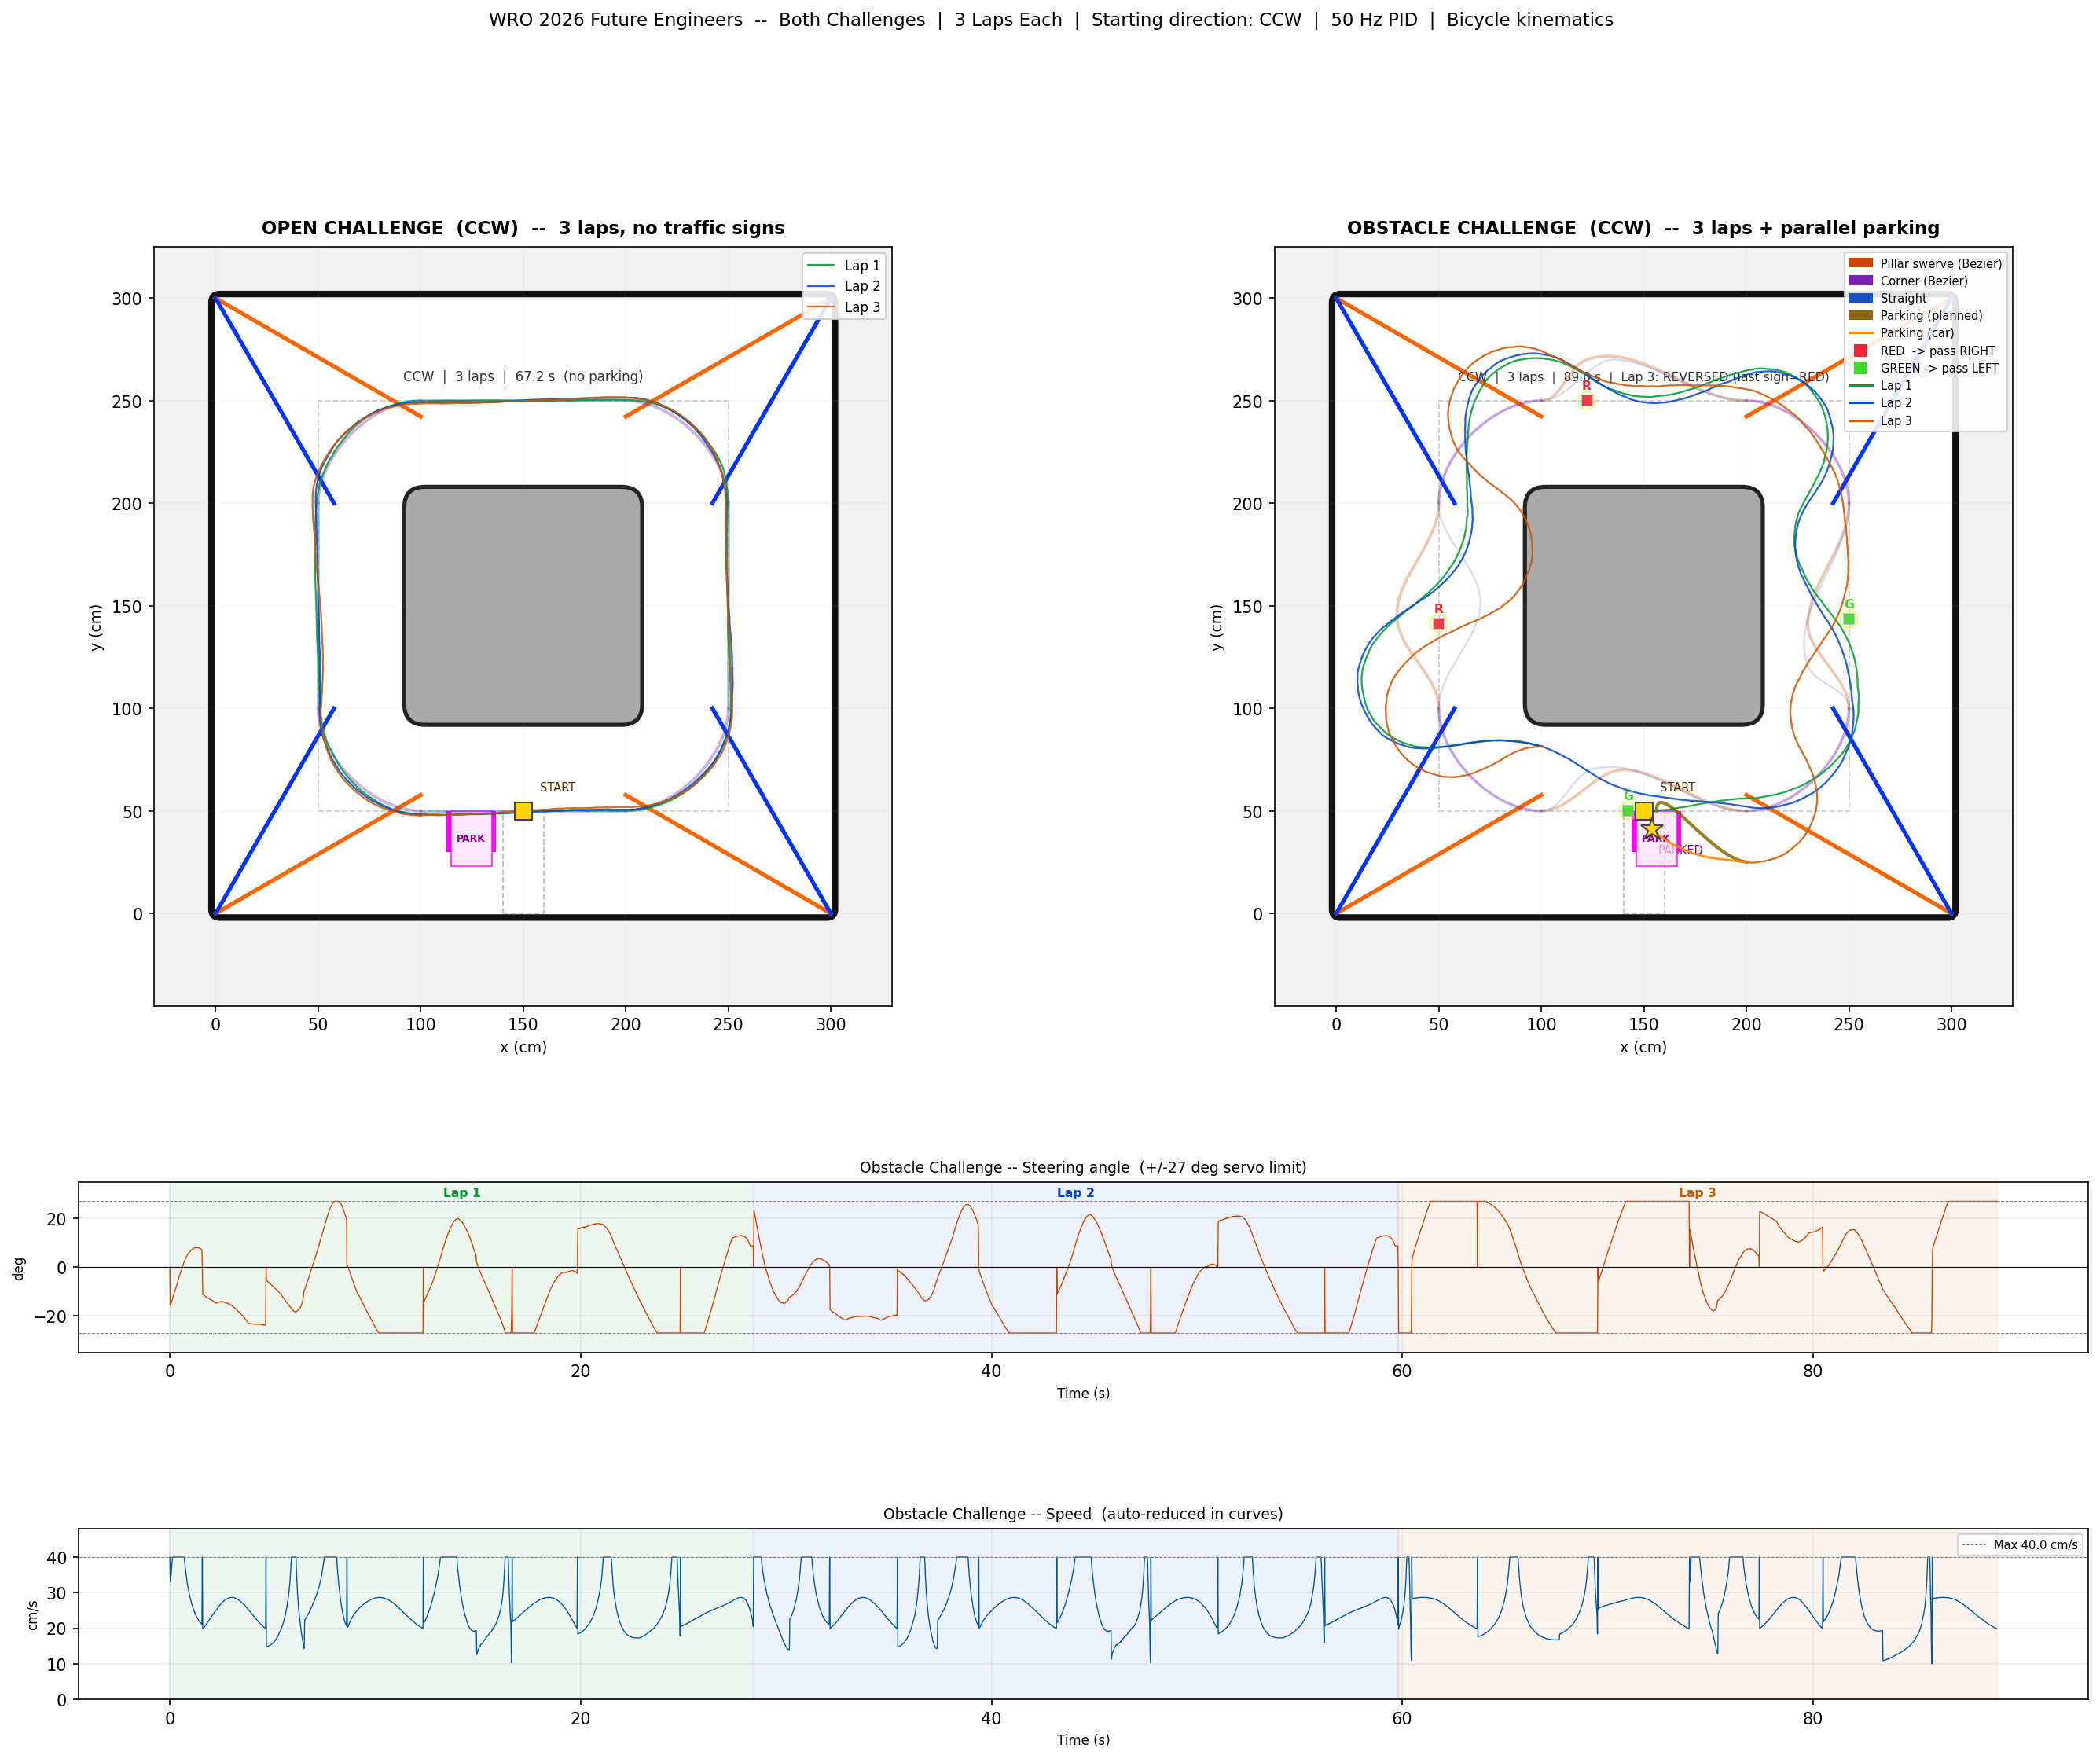
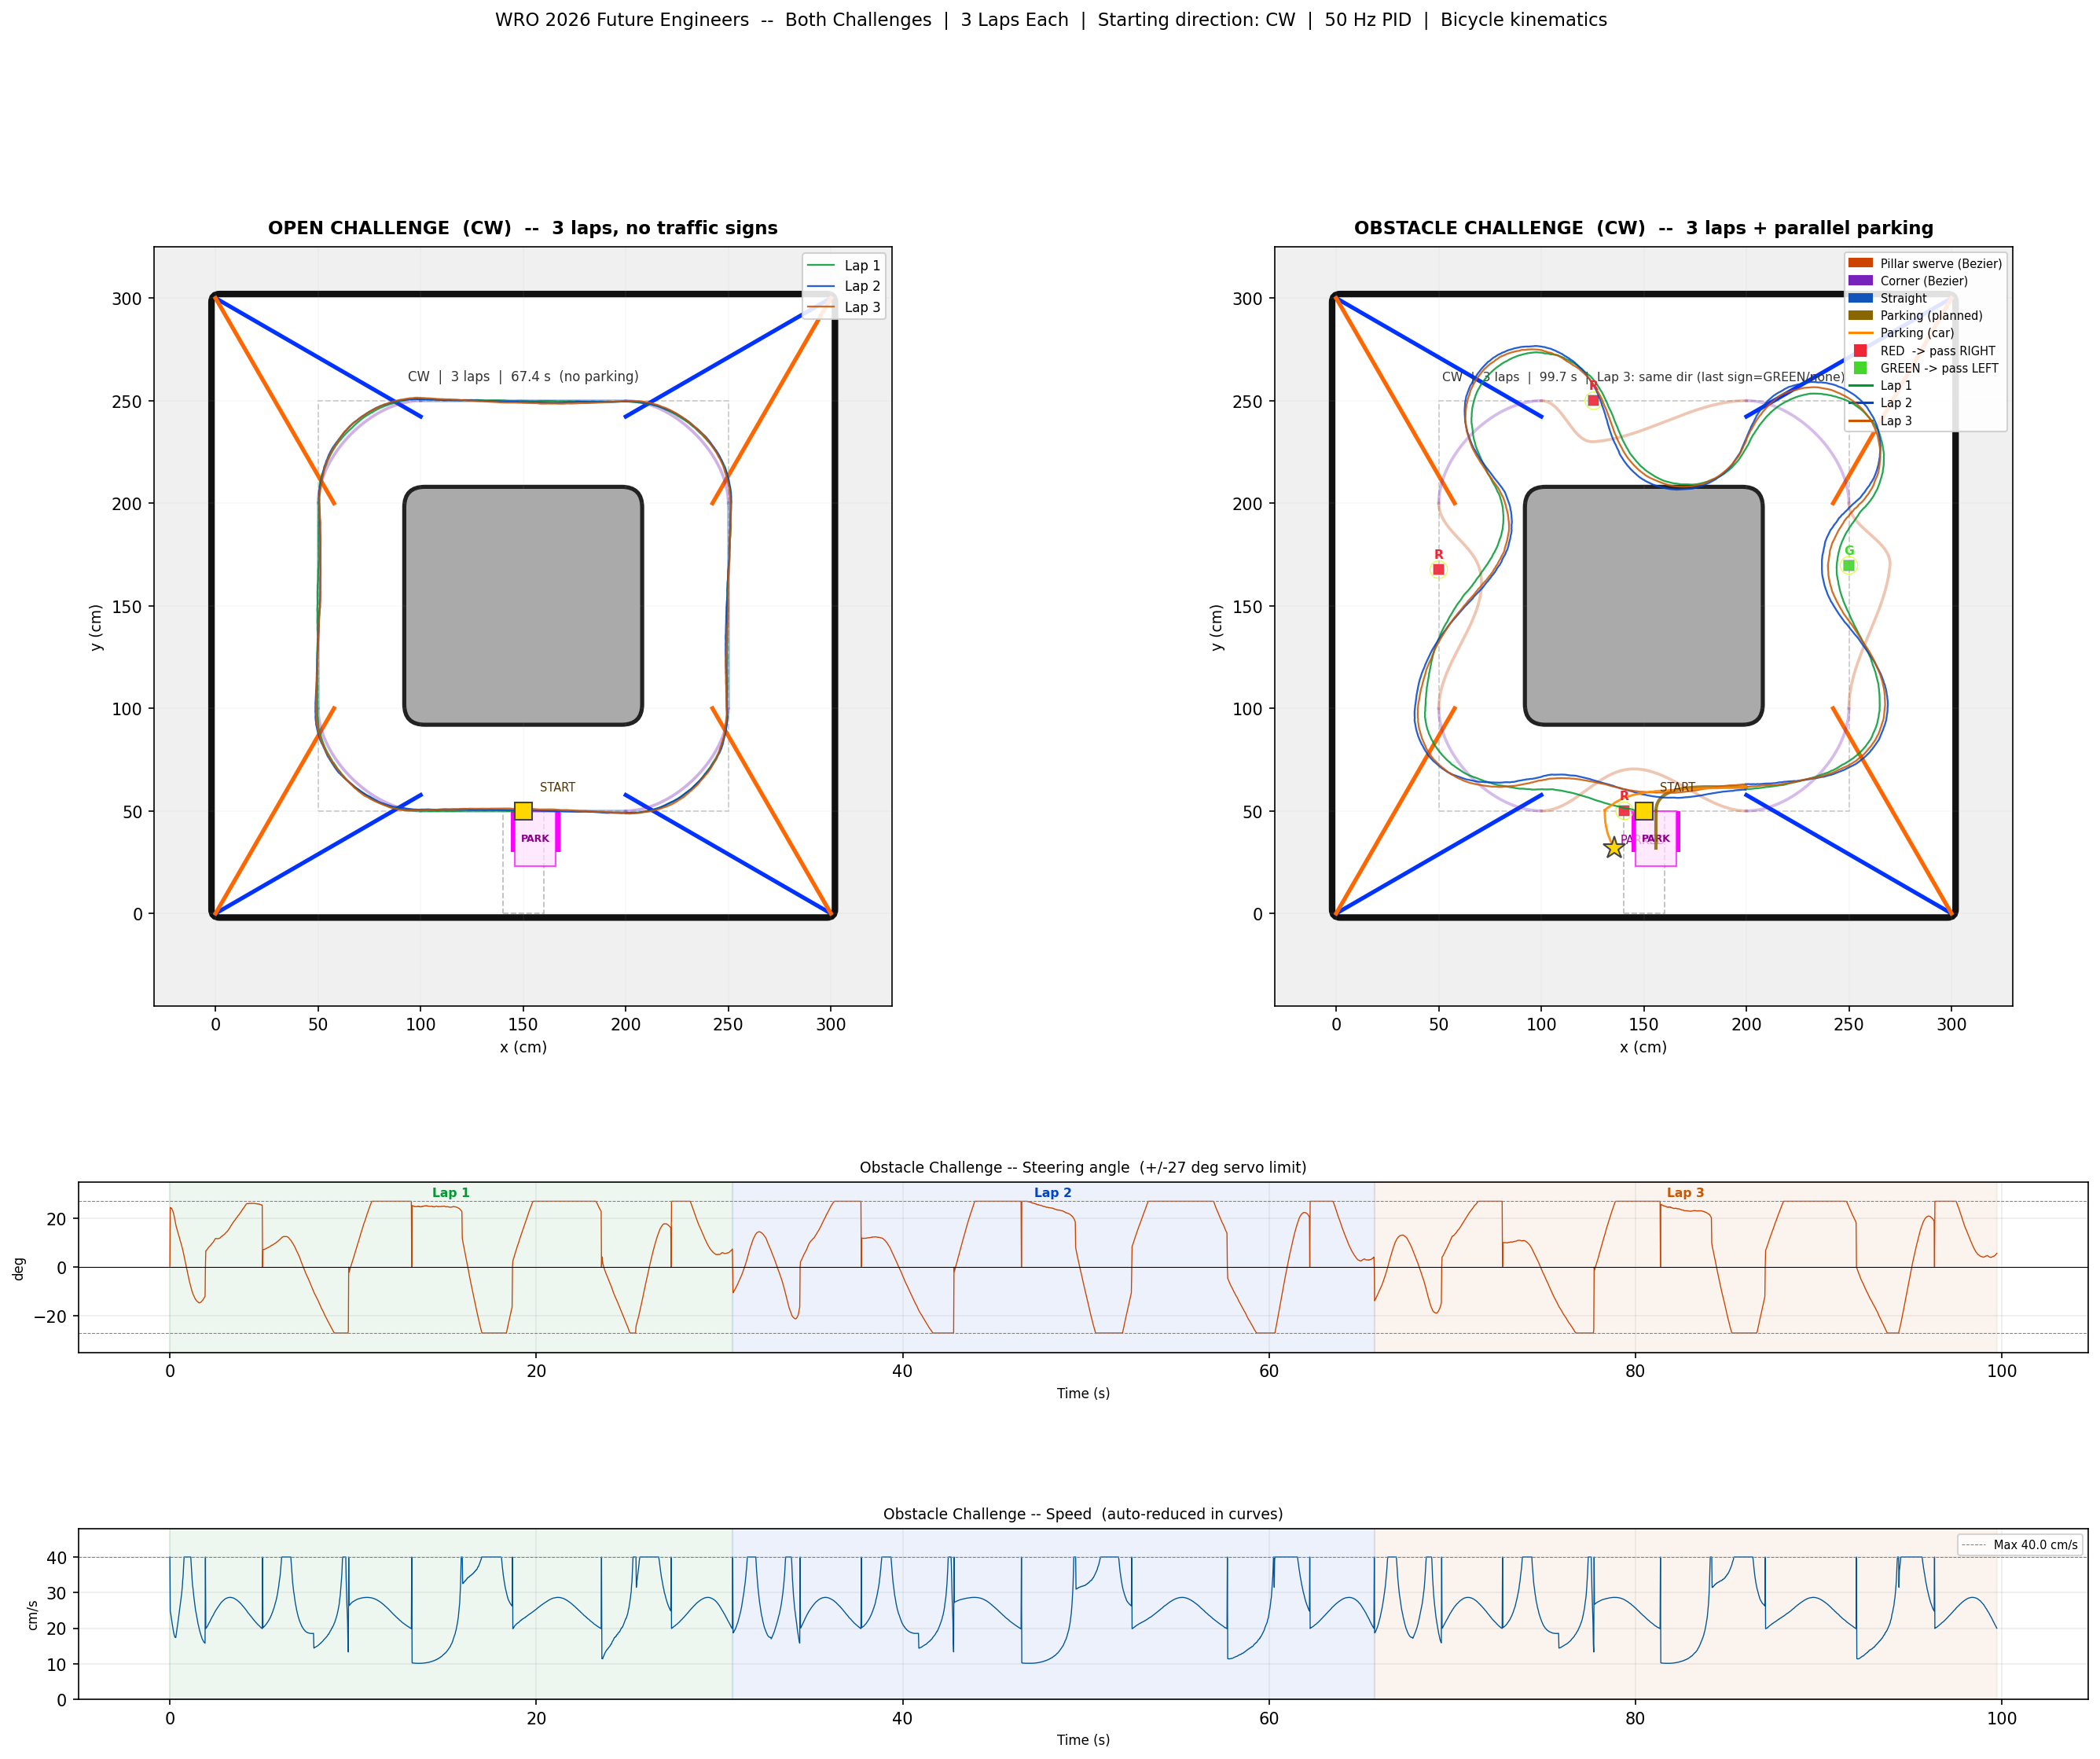
Fix corner line colors and add parking drive-in to simulation
- Swap orange/blue on all 8 corner diagonal lines (both race_sim and
  pygame_sim) — PDF shows orange is the steep 60° line, blue is the
  shallow 30° line; our code had them reversed
- Add drive-in phase after parking approach: straight south 18 cm into
  the lot (LOT_DEPTH - ROBOT_LENGTH/2), simulated and visualised in
  both matplotlib and pygame outputs
- PARKED star now marks the actual stop point inside the lot, not the
  lot entry
- Update make_track_surface() and _regenerate() to carry drive_in_path

diff --git a/simulation/pygame_sim.py b/simulation/pygame_sim.py
@@ -17,8 +17,8 @@ Controls:
 
 What you see:
     Left panel   -- 300 x 300 cm WRO 2026 field (to scale at 2 px/cm)
-                    * Orange diagonal lines  = CCW corner markers
-                    * Blue   diagonal lines  = CW  corner markers
+                    * Orange diagonal lines  = steep corner lines (60° from horiz)
+                    * Blue   diagonal lines  = shallow corner lines (30° from horiz)
                     * Rounded gray square    = inner obstacle
                     * Pink rectangle         = parking lot
                     * Coloured dots          = pillars  (R=red, G=green)
@@ -55,7 +55,7 @@ from simulation.race_sim import (
     CCW_LOT_X, CCW_LOT_Y,
     CW_LOT_X,  CW_LOT_Y,
     LOT_THETA, LOT_WIDTH, LOT_DEPTH, MARKER_W, MARKER_L,
-    BASE_SPEED, DT, WHEELBASE,
+    BASE_SPEED, DT, WHEELBASE, ROBOT_LENGTH,
 )
 from trajectory.builder import TrajectoryBuilder, RED, GREEN
 
@@ -130,7 +130,7 @@ def _draw_path(surf, path, color, width=2):
 # Static track surface  (built once per run)
 # ─────────────────────────────────────────────────────────────────────────────
 
-def make_track_surface(sections, park_path, lot_x, lot_y, pillars, fnt_sm):
+def make_track_surface(sections, park_path, drive_in_path, lot_x, lot_y, pillars, fnt_sm):
     surf = pygame.Surface((WIN_W, WIN_H))
     surf.fill(BG)
 
@@ -164,23 +164,23 @@ def make_track_surface(sections, park_path, lot_x, lot_y, pillars, fnt_sm):
 
     # ── Diagonal corner markers — 30° geometry (WRO 2026 Figure 11)
     # T30 = 100 * tan(30°) ≈ 57.7 cm — where each line meets the inner wall face
-    # Orange: 30° from horizontal   Blue: 60° from horizontal (30° from vertical)
+    # Orange = steep (60° from horiz, toward side face)   Blue = shallow (30° from horiz)
     T30 = 100 * math.tan(math.radians(30))   # ≈ 57.7
     def cl(a, b, col):
         pygame.draw.line(surf, col, w2s(*a), w2s(*b), 3)
 
     # BL outer (0,0)
-    cl((0, 0),   (100, T30),       ORG_L)
-    cl((0, 0),   (T30, 100),       BLU_L)
+    cl((0, 0),   (100, T30),       BLU_L)
+    cl((0, 0),   (T30, 100),       ORG_L)
     # BR outer (300,0)
-    cl((300, 0), (200, T30),       ORG_L)
-    cl((300, 0), (300-T30, 100),   BLU_L)
+    cl((300, 0), (200, T30),       BLU_L)
+    cl((300, 0), (300-T30, 100),   ORG_L)
     # TR outer (300,300)
-    cl((300,300),(200, 300-T30),   ORG_L)
-    cl((300,300),(300-T30, 200),   BLU_L)
+    cl((300,300),(200, 300-T30),   BLU_L)
+    cl((300,300),(300-T30, 200),   ORG_L)
     # TL outer (0,300)
-    cl((0, 300), (100, 300-T30),   ORG_L)
-    cl((0, 300), (T30, 200),       BLU_L)
+    cl((0, 300), (100, 300-T30),   BLU_L)
+    cl((0, 300), (T30, 200),       ORG_L)
 
     # ── Parking lot (light fill + two magenta marker blocks)
     lx1, ly1 = w2s(lot_x - LOT_WIDTH/2, lot_y)
@@ -208,6 +208,8 @@ def make_track_surface(sections, park_path, lot_x, lot_y, pillars, fnt_sm):
         _draw_path(surf, path, col, 2)
     if park_path is not None:
         _draw_path(surf, park_path, COL_PRK, 2)
+    if drive_in_path is not None:
+        _draw_path(surf, drive_in_path, COL_PRK, 2)
 
     # ── Starting zone  200x500 mm = 20x50 cm, dashed CMYK(0,0,0,30)
     # 20 cm centred at x=150 along the bottom straight, y=0..50
@@ -406,7 +408,7 @@ def draw_panel(surf, fonts, direction, sec_name, sec_i,
         (COL_SWV, "Pillar swerve"),
         (COL_COR, "Corner (Bezier)"),
         (COL_STR, "Straight"),
-        (COL_PRK, "Parking curve"),
+        (COL_PRK, "Parking (approach+in)"),
     ]:
         pygame.draw.rect(surf, col, (PAN_X+pad, y+4, 16, 6), border_radius=2)
         text(f"   {lbl}", font_sm, TXT_D, ox=16); gap(1)
@@ -429,8 +431,8 @@ def draw_panel(surf, fonts, direction, sec_name, sec_i,
 
 def compute_run(sections, start_theta, lot_x, lot_y):
     """
-    Run bicycle-model simulation through all sections + parking approach.
-    Returns (frames_list, park_path) where each frame is a tuple:
+    Run bicycle-model simulation through all sections + parking approach + drive-in.
+    Returns (frames_list, park_path, drive_in_path) where each frame is a tuple:
         (x, y, theta, steer_deg, speed_cm_s, sec_index, sec_label)
     """
     frames = []
@@ -447,8 +449,18 @@ def compute_run(sections, start_theta, lot_x, lot_y):
     xs, ys, ths, sts, sps = simulate_section(park_path, cx, cy, cth)
     for row in zip(xs, ys, ths, sts, sps):
         frames.append((*row, 8, "Parking approach"))
+    cx, cy, cth = xs[-1], ys[-1], LOT_THETA
 
-    return frames, park_path
+    # Drive-in: straight south between the two pink marker walls
+    stop_dist = LOT_DEPTH - ROBOT_LENGTH / 2   # = 18.0 cm
+    drive_in_path = TrajectoryBuilder.straight(
+        lot_x, lot_y,
+        lot_x, lot_y - stop_dist)
+    xs, ys, ths, sts, sps = simulate_section(drive_in_path, cx, cy, cth)
+    for row in zip(xs, ys, ths, sts, sps):
+        frames.append((*row, 9, "Parking drive-in"))
+
+    return frames, park_path, drive_in_path
 
 
 # ─────────────────────────────────────────────────────────────────────────────
@@ -464,8 +476,8 @@ def _regenerate():
     ccw_secs = build_ccw_sections(ccw_p)
     cw_secs  = build_cw_sections(cw_p)
 
-    ccw_frames, ccw_park = compute_run(ccw_secs, 0.0,      ccw_lot_x, CCW_LOT_Y)
-    cw_frames,  cw_park  = compute_run(cw_secs,  math.pi,  cw_lot_x,  CW_LOT_Y)
+    ccw_frames, ccw_park, ccw_drive_in = compute_run(ccw_secs, 0.0,     ccw_lot_x, CCW_LOT_Y)
+    cw_frames,  cw_park,  cw_drive_in  = compute_run(cw_secs,  math.pi, cw_lot_x,  CW_LOT_Y)
 
     ccw_pills = list(ccw_p.values())
     cw_pills  = list(cw_p.values())
@@ -476,8 +488,8 @@ def _regenerate():
           f"lot_x={cw_lot_x:.0f}")
 
     return [
-        ('CCW', C_CCW, ccw_frames, ccw_secs, ccw_park, ccw_lot_x, CCW_LOT_Y, ccw_pills),
-        ('CW',  C_CW,  cw_frames,  cw_secs,  cw_park,  cw_lot_x,  CW_LOT_Y,  cw_pills),
+        ('CCW', C_CCW, ccw_frames, ccw_secs, ccw_park, ccw_drive_in, ccw_lot_x, CCW_LOT_Y, ccw_pills),
+        ('CW',  C_CW,  cw_frames,  cw_secs,  cw_park,  cw_drive_in,  cw_lot_x,  CW_LOT_Y,  cw_pills),
     ]
 
 
@@ -519,8 +531,8 @@ def main():
         trail.clear()
         full_trail = []
         state = 'run'
-        _, _, _, secs, park, lx, ly, pills = runs[idx]
-        track_surf = make_track_surface(secs, park, lx, ly, pills, font_sm)
+        _, _, _, secs, park, drive_in, lx, ly, pills = runs[idx]
+        track_surf = make_track_surface(secs, park, drive_in, lx, ly, pills, font_sm)
 
     load_run(0)
 
@@ -544,7 +556,7 @@ def main():
                     load_run(0); paused = False
 
         # Unpack current run
-        direction, car_col, frames, _, _, lot_x, lot_y, _ = runs[run_idx]
+        direction, car_col, frames, _, _, _, lot_x, lot_y, _ = runs[run_idx]
         total = len(frames)
 
         # Advance
@@ -561,7 +573,7 @@ def main():
                     nxt = run_idx + 1
                     if nxt < len(runs):
                         load_run(nxt)
-                        direction, car_col, frames, _, _, lot_x, lot_y, _ = runs[run_idx]
+                        direction, car_col, frames, _, _, _, lot_x, lot_y, _ = runs[run_idx]
                         total = len(frames)
                     else:
                         state = 'done'

diff --git a/simulation/race_sim.py b/simulation/race_sim.py
@@ -404,22 +404,23 @@ def draw_track(ax, title, lot_x, lot_y, start_x=150.0):
 
     # ── Corner lines — 30° geometry (WRO 2026 Figure 11) ─────────────────────
     # T30 = distance along the inner wall face where the line terminates.
-    # Two lines per corner: orange at 30° from horiz, blue at 60° from horiz.
+    # Orange = steep line (60° from horiz, toward side face of inner obstacle)
+    # Blue   = shallow line (30° from horiz, toward bottom/top face)
     T30 = INNER_LO * math.tan(math.radians(30))   # ≈ 57.7 cm
     LW  = 2.5
 
     # BL: outer (0,0) → inner obstacle corner (100,100)
-    ax.plot([0,     INNER_LO], [0,     T30      ], color=ORG, lw=LW, zorder=3)
-    ax.plot([0,     T30      ], [0,     INNER_LO ], color=BLU, lw=LW, zorder=3)
+    ax.plot([0,     INNER_LO], [0,     T30      ], color=BLU, lw=LW, zorder=3)
+    ax.plot([0,     T30      ], [0,     INNER_LO ], color=ORG, lw=LW, zorder=3)
     # BR: outer (300,0) → inner (200,100)
-    ax.plot([OUTER, INNER_HI], [0,     T30      ], color=ORG, lw=LW, zorder=3)
-    ax.plot([OUTER, OUTER-T30], [0,    INNER_LO ], color=BLU, lw=LW, zorder=3)
+    ax.plot([OUTER, INNER_HI], [0,     T30      ], color=BLU, lw=LW, zorder=3)
+    ax.plot([OUTER, OUTER-T30], [0,    INNER_LO ], color=ORG, lw=LW, zorder=3)
     # TR: outer (300,300) → inner (200,200)
-    ax.plot([OUTER, INNER_HI], [OUTER, OUTER-T30], color=ORG, lw=LW, zorder=3)
-    ax.plot([OUTER, OUTER-T30], [OUTER, INNER_HI], color=BLU, lw=LW, zorder=3)
+    ax.plot([OUTER, INNER_HI], [OUTER, OUTER-T30], color=BLU, lw=LW, zorder=3)
+    ax.plot([OUTER, OUTER-T30], [OUTER, INNER_HI], color=ORG, lw=LW, zorder=3)
     # TL: outer (0,300) → inner (100,200)
-    ax.plot([0,     INNER_LO], [OUTER, OUTER-T30], color=ORG, lw=LW, zorder=3)
-    ax.plot([0,     T30      ], [OUTER, INNER_HI ], color=BLU, lw=LW, zorder=3)
+    ax.plot([0,     INNER_LO], [OUTER, OUTER-T30], color=BLU, lw=LW, zorder=3)
+    ax.plot([0,     T30      ], [OUTER, INNER_HI ], color=ORG, lw=LW, zorder=3)
 
     # ── Dashed centreline loop  CMYK(0,0,0,30) ───────────────────────────────
     ax.plot([CL, CH, CH, CL, CL], [CL, CL, CH, CH, CL],
@@ -609,6 +610,14 @@ def main():
         cx, cy, cth, final_lot_x, lot_y, LOT_THETA)
     pxp, pyp, _, _, _ = simulate_section(park_path, cx, cy, cth, 'parking')
 
+    # Drive-in: straight south from lot entry into the space between the pink walls
+    cx_a, cy_a, cth_a = pxp[-1], pyp[-1], LOT_THETA
+    stop_dist = LOT_DEPTH - ROBOT_LENGTH / 2   # = 18.0 cm
+    drive_in_path = TrajectoryBuilder.straight(
+        final_lot_x, lot_y,
+        final_lot_x, lot_y - stop_dist)
+    pxd, pyd, _, _, _ = simulate_section(drive_in_path, cx_a, cy_a, cth_a, 'park_drive_in')
+
     t_obs = sum(len(lx) for lx in obs_laps_xs) * DT
     print(f"\nOpen Challenge:     {t_open:.1f} s  ({int(t_open/DT)} steps)")
     print(f"Obstacle Challenge: {t_obs:.1f} s  ({int(t_obs/DT)} steps) + parking")
@@ -677,13 +686,15 @@ def main():
         ax_obs.plot(lxs, lys, '-', color=LAP_COLS[i], lw=1.1,
                     alpha=0.85, label=lap_label, zorder=8)
 
-    _plot_path(ax_obs, park_path, C_PARK_PLN, lw=2.0, alpha=0.85)
+    _plot_path(ax_obs, park_path,    C_PARK_PLN, lw=2.0, alpha=0.85)
+    _plot_path(ax_obs, drive_in_path, C_PARK_PLN, lw=2.0, alpha=0.85)
     ax_obs.plot(pxp, pyp, '-', color=C_PARK_CAR, lw=1.4, alpha=0.9, zorder=8)
+    ax_obs.plot(pxd, pyd, '-', color=C_PARK_CAR, lw=1.4, alpha=0.9, zorder=8)
 
     ax_obs.plot(150, CL, 's', color='gold', ms=11, mec='#444', zorder=10)
     ax_obs.text(158, CL+10, 'START', fontsize=7, color='#553300', zorder=11)
-    ax_obs.plot(pxp[-1], pyp[-1], '*', color='gold', ms=14, mec='#444', zorder=10)
-    ax_obs.text(pxp[-1]+3, pyp[-1]-12, 'PARKED', fontsize=7, color='#880088')
+    ax_obs.plot(pxd[-1], pyd[-1], '*', color='gold', ms=14, mec='#444', zorder=10)
+    ax_obs.text(pxd[-1]+3, pyd[-1]+2, 'PARKED', fontsize=7, color='#880088')
 
     rule_note = ('Lap 3: REVERSED (last sign=RED)'
                  if last_sign == RED else